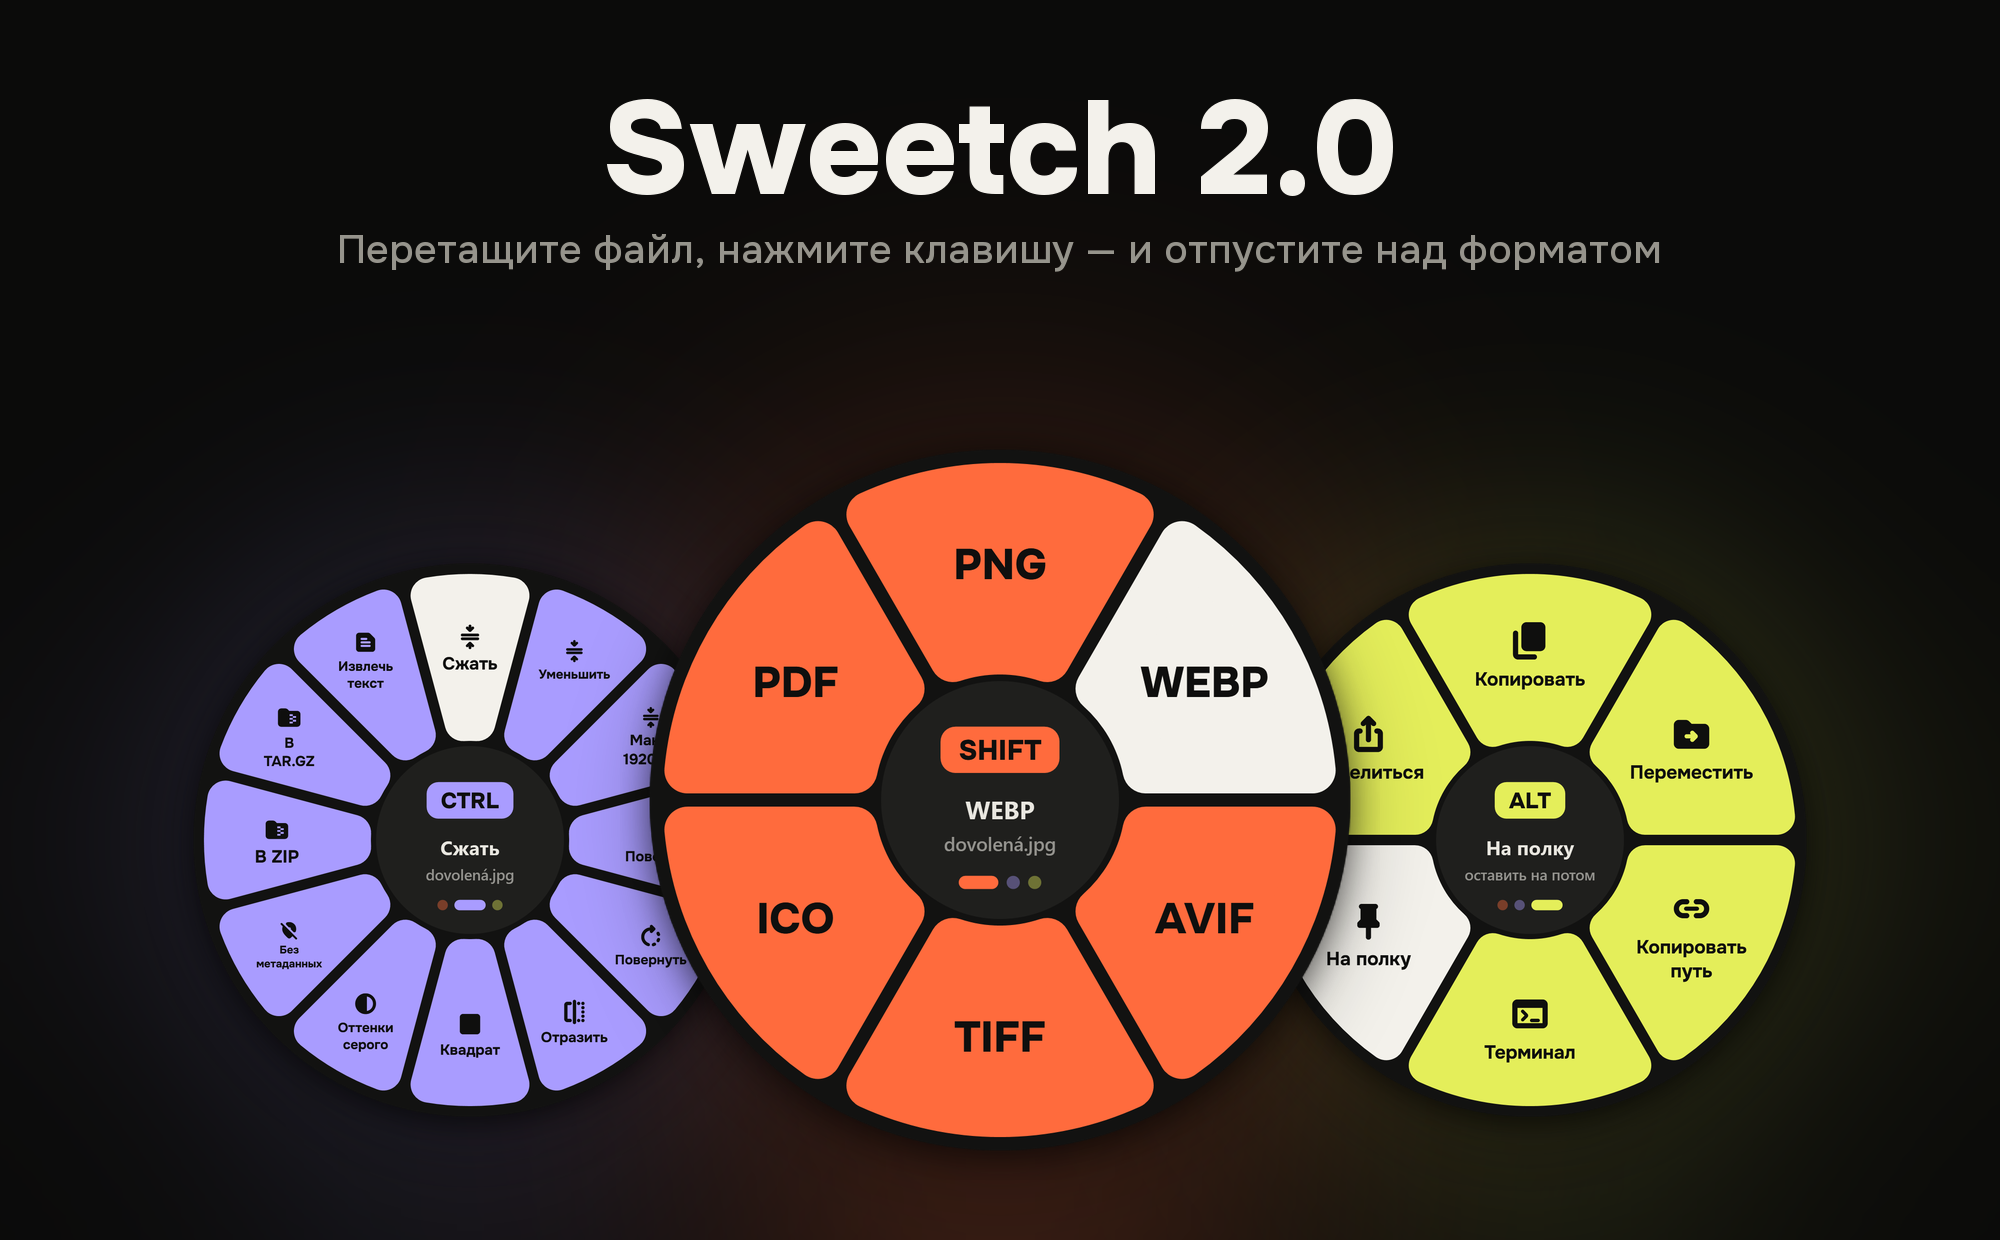
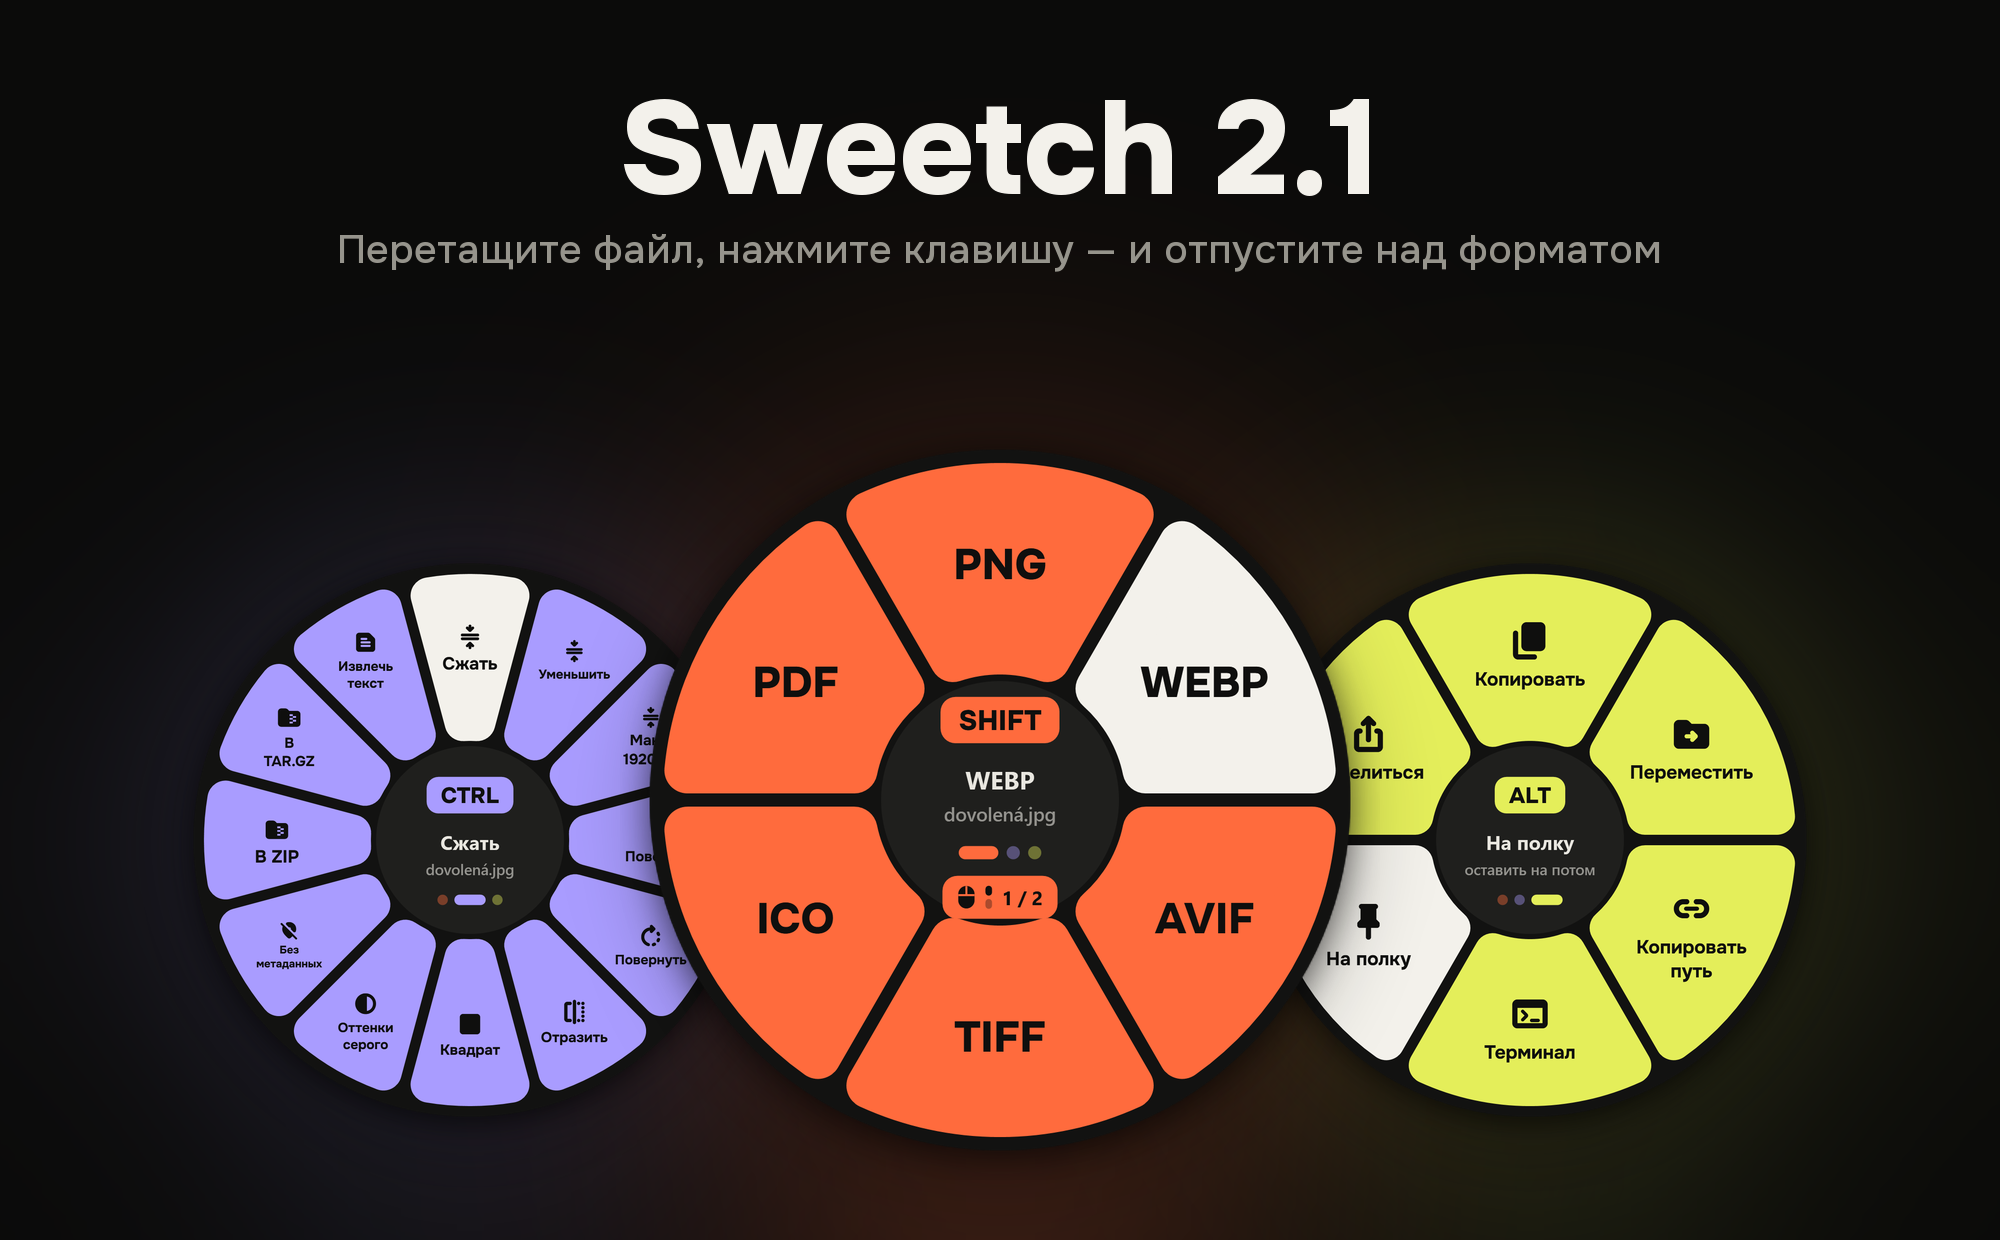
Sweetch 2.1: changelog, release notes, version, README art
- Version 2.1 everywhere the build reads it; README links point at v2.1
- CHANGELOG.md and .github/release-notes/v2.1.md
- README: what's new in 2.1, hero and screenshots from a fresh self-test
- build.ps1 empties publish instead of deleting it, so a terminal open in
  that folder no longer stops the build

diff --git a/scripts/build-readme-art.py b/scripts/build-readme-art.py
@@ -61,7 +61,7 @@ def hero(shots, theme):
 
     draw = ImageDraw.Draw(canvas)
     title = font(800, 132)
-    draw.text((width // 2, 150), 'Sweetch 2.0', font=title, fill=text, anchor='mm')
+    draw.text((width // 2, 150), 'Sweetch 2.1', font=title, fill=text, anchor='mm')
     draw.text((width // 2, 250), 'Перетащите файл, нажмите клавишу — и отпустите над форматом', font=font(500, 40), fill=muted, anchor='mm')
     return canvas.convert('RGB')  # full size: sharp on high-DPI screens
 

diff --git a/README.md b/README.md
@@ -1,7 +1,7 @@
 <p align="center">
   <picture>
     <source media="(prefers-color-scheme: dark)" srcset="docs/hero-dark.png" />
-    <img src="docs/hero-light.png" width="100%" alt="Sweetch 2.0: колёса конвертации, инструментов и действий" />
+    <img src="docs/hero-light.png" width="100%" alt="Sweetch 2.1: колёса конвертации, инструментов и действий" />
   </picture>
 </p>
 
@@ -20,8 +20,8 @@
 </p>
 
 <p align="center">
-  <a href="https://github.com/chikirao/Sweetchiki/releases/download/v2.0/Sweetch-2.0-Setup-win-x64.exe"><img src="https://img.shields.io/badge/%D0%A1%D0%BA%D0%B0%D1%87%D0%B0%D1%82%D1%8C-%D1%83%D1%81%D1%82%D0%B0%D0%BD%D0%BE%D0%B2%D1%89%D0%B8%D0%BA%20EXE-FF6B3D?style=for-the-badge&logo=windows&logoColor=white&labelColor=0F0F0E" alt="Скачать установщик EXE" /></a>
-  <a href="https://github.com/chikirao/Sweetchiki/releases/download/v2.0/Sweetch-2.0-win-x64.zip"><img src="https://img.shields.io/badge/%D0%B8%D0%BB%D0%B8-%D0%B0%D1%80%D1%85%D0%B8%D0%B2%20ZIP-555550?style=for-the-badge&labelColor=0F0F0E" alt="Скачать архив ZIP" /></a>
+  <a href="https://github.com/chikirao/Sweetchiki/releases/download/v2.1/Sweetch-2.1-Setup-win-x64.exe"><img src="https://img.shields.io/badge/%D0%A1%D0%BA%D0%B0%D1%87%D0%B0%D1%82%D1%8C-%D1%83%D1%81%D1%82%D0%B0%D0%BD%D0%BE%D0%B2%D1%89%D0%B8%D0%BA%20EXE-FF6B3D?style=for-the-badge&logo=windows&logoColor=white&labelColor=0F0F0E" alt="Скачать установщик EXE" /></a>
+  <a href="https://github.com/chikirao/Sweetchiki/releases/download/v2.1/Sweetch-2.1-win-x64.zip"><img src="https://img.shields.io/badge/%D0%B8%D0%BB%D0%B8-%D0%B0%D1%80%D1%85%D0%B8%D0%B2%20ZIP-555550?style=for-the-badge&labelColor=0F0F0E" alt="Скачать архив ZIP" /></a>
 </p>
 
 <p align="center">
@@ -56,6 +56,17 @@
 
 Отпустите файл в центре колеса — отмена. Без мыши: выберите файлы в Проводнике и нажмите <kbd>Ctrl</kbd> + <kbd>Alt</kbd> + <kbd>Space</kbd>. Ещё Sweetch есть в контекстном меню Проводника и в трее рядом с часами.
 
+## Что нового в 2.1
+
+- **Сотня новых форматов:** PSD, JPEG XL, HEVC, Outlook MSG, Apple Pages, Numbers и Keynote, LaTeX, YAML, TOML, vCard, ASS, LRC и другие — полная таблица ниже
+- **Вторая страница колеса** с редкими форматами — колёсиком мыши, номер страницы в центре
+- **Субтитры в TXT с таймкодами**, из видео и из файлов субтитров; любая кодировка → UTF-8
+- **Обновления в один клик** прямо из программы
+- **Поиск по формату** в «Доп. программах»
+- Обучение при первом запуске
+
+Все изменения — в [CHANGELOG.md](CHANGELOG.md).
+
 ## Что нового в 2.0
 
 <table>
@@ -72,8 +83,6 @@
 - Новые настройки: цветные плитки, понятные разделы, тонкая прокрутка
 - Тёмная и светлая темы, схема «Низкий контраст»
 - Раскладка подстраивается под узкое окно
-- Вторая страница колеса с редкими форматами — колёсиком мыши, номер страницы в центре
-- Короткое обучение при первом запуске
 - Новый логотип и иконка в трее
 
 </td>
@@ -109,8 +118,8 @@
 
 | Вариант | Как запустить |
 | --- | --- |
-| **[Установщик EXE](https://github.com/chikirao/Sweetchiki/releases/download/v2.0/Sweetch-2.0-Setup-win-x64.exe)** | Запустите установщик: программа появится в меню «Пуск» и удаляется через настройки Windows. |
-| **[Архив ZIP](https://github.com/chikirao/Sweetchiki/releases/download/v2.0/Sweetch-2.0-win-x64.zip)** | Распакуйте всю папку и запустите `Sweetch.exe`. |
+| **[Установщик EXE](https://github.com/chikirao/Sweetchiki/releases/download/v2.1/Sweetch-2.1-Setup-win-x64.exe)** | Запустите установщик: программа появится в меню «Пуск» и удаляется через настройки Windows. |
+| **[Архив ZIP](https://github.com/chikirao/Sweetchiki/releases/download/v2.1/Sweetch-2.1-win-x64.zip)** | Распакуйте всю папку и запустите `Sweetch.exe`. |
 
 Нужна Windows 10 (1809+) или 11, x64; .NET уже внутри. [Все файлы и контрольные суммы SHA-256](https://github.com/chikirao/Sweetchiki/releases/latest). Версия 1.0 — в [оригинальном репозитории](https://github.com/krllmrzv/Sweetch/releases/tag/v1.0).
 

diff --git a/CHANGELOG.md b/CHANGELOG.md
@@ -1,0 +1,30 @@
+# Что нового
+
+## 2.1
+
+### Больше форматов
+- **Картинки:** PSD/PSB, TGA, JPEG XL, JPEG 2000, QOI, DDS, PPM, PCX, OpenEXR, HDR, CUR, APNG, MNG, GIMP XCF, DICOM, вектор SVGZ, EMF, WMF. Новые выходы: JPEG XL, BMP, GIF.
+- **Видео:** OGV, VOB, M2TS, MXF, DivX, ASF, RM, F4V. Новые выходы: MP4 в HEVC (H.265, на видеокарте, если умеет), M4A, AVI, APNG. «Субтитры» достают из видео SRT и TXT с таймкодами.
+- **Аудио:** AMR, APE, WavPack, TTA, DSD (DSF/DFF), DTS, AC3, E-AC3, MKA, CAF, AU, VOC, W64. Новые выходы: ALAC, WavPack, TTA, AC3.
+- **Документы:** LaTeX, reStructuredText, Org, AsciiDoc, Typst, Jupyter, FB2, Textile, MediaWiki, DocBook, OPML, Djot; Word DOCM/DOTX, WPS, WordPerfect, Apple Pages. Выходы LaTeX, rST, Typst, AsciiDoc и слайды PPTX.
+- **Таблицы и презентации:** шаблоны XLT/XLTX/OTS, Apple Numbers и Keynote, PPTM, POTX, PPSX и др. Таблица → HTML, JSON, контакты VCF; презентация → DOCX.
+- **Субтитры:** ASS/SSA, LRC, SAMI, TTML, MicroDVD; TXT с таймкодами `[00:01:02] текст`; любая кодировка на входе (в том числе Windows-1251), всегда UTF-8 на выходе; инструмент «UTF-8».
+- **Данные:** JSON, JSON Lines, YAML, TOML, XML друг в друга; списки записей → CSV и XLSX.
+- **Контакты:** vCard ↔ CSV/XLSX, включая старые экспорты Android.
+- **Письма:** EML и Outlook MSG → HTML и PDF, MSG → EML, все вложения — в папку. Сохранённые страницы MHTML → HTML и PDF.
+- **PDF:** многостраничный TIFF, комикс CBZ, инструмент «Страницы» (`1-3, 5, 8-`).
+
+### Колесо
+- **Вторая страница** с редкими форматами — крутите колёсико мыши, пока меню открыто, и во время перетаскивания тоже. Под центром — номер страницы «1 / 2».
+- Любой сектор можно перенести на другую страницу в настройках колёс.
+- Обучение при первом запуске; оно же — «Как пользоваться» в трее.
+
+### Программа
+- **Обновления:** Sweetch сам проверяет новые релизы на GitHub и предлагает обновиться в один клик. Установленная версия ставит новую тихо, ZIP-версия заменяет свои файлы; загрузка сверяется с SHA-256. Выключается в настройках.
+- **Доп. программы:** поиск по формату (`png`, `.docx`) показывает, какая программа нужна, и у каждой — список её форматов и функций.
+- Исправлено: в узком окне настроек раскладка могла бесконечно перестраиваться и грузить процессор.
+- Исправлено: сборка не падает, если в папке `publish` открыт терминал.
+
+## 2.0
+
+Редизайн и оптимизация форка: колесо из крупных цветных блоков, новые настройки, светлая и тёмная темы и «Низкий контраст»; колесо открывается за ~5 мс, видео кодируется на видеокарте, пачки фото — параллельно, PDF рендерится в 14 раз быстрее, программа вдвое меньше (Pandoc скачивается по требованию). Подробнее — в [релизе 2.0](https://github.com/chikirao/Sweetchiki/releases/tag/v2.0).

diff --git a/.github/release-notes/v2.1.md b/.github/release-notes/v2.1.md
@@ -1,0 +1,49 @@
+<p align="center">
+  <img src="https://raw.githubusercontent.com/chikirao/Sweetchiki/main/docs/hero-dark.png" width="100%" alt="Sweetch 2.1" />
+</p>
+
+**Sweetch 2.1 — сотня новых форматов, вторая страница колеса и обновления в один клик.**
+
+## Скачать
+
+| Файл | Что это |
+| --- | --- |
+| **`Sweetch-2.1-Setup-win-x64.exe`** | Установщик: меню «Пуск», удаление через настройки Windows |
+| **`Sweetch-2.1-win-x64.zip`** | Без установки: распакуйте папку и запустите `Sweetch.exe` |
+| `*.sha256` | Контрольные суммы |
+
+Windows 10 (1809+) или 11, x64. С версии 2.1 Sweetch обновляется сам; с 2.0 — один раз поставьте эту версию поверх.
+
+## 🗂 Больше форматов
+
+| | Новое |
+| --- | --- |
+| 🖼 Картинки | PSD, TGA, JPEG XL, JPEG 2000, QOI, DDS, EXR, HDR, XCF, DICOM, EMF, WMF… → JPEG XL, BMP, GIF |
+| 🎬 Видео | OGV, VOB, M2TS, MXF, DivX, RM… → **HEVC** (на видеокарте), M4A, AVI, APNG; субтитры из видео |
+| 🎵 Аудио | AMR, APE, WavPack, TTA, DSD, DTS, AC3… → ALAC, WavPack, TTA, AC3 |
+| 📄 Документы | LaTeX, rST, Org, AsciiDoc, Typst, Jupyter, FB2, Apple Pages, WordPerfect… → LaTeX, Typst, слайды PPTX |
+| 📊 Таблицы, слайды | Numbers, Keynote, шаблоны Office → HTML, JSON, VCF, DOCX |
+| 💬 Субтитры | ASS, LRC, SAMI, TTML, MicroDVD; **TXT с таймкодами**; любая кодировка → UTF-8 |
+| 🧾 Данные | JSON ↔ YAML ↔ TOML ↔ XML ↔ JSONL, записи → CSV/XLSX, контакты vCard ↔ таблица |
+| ✉ Письма | EML и **Outlook MSG** → HTML/PDF, вложения в папку; страницы MHTML |
+| 📑 PDF | многостраничный TIFF, комикс CBZ, «Страницы» `1-3, 5, 8-` |
+
+## 🎡 Колесо
+
+- **Вторая страница** с редкими форматами: крутите колёсико мыши — даже во время перетаскивания. Под центром видно страницу: «1 / 2».
+- Любой сектор переносится между страницами в настройках.
+- Обучение при первом запуске — с настоящими колёсами.
+
+## ⚙ Программа
+
+- **Обновления в один клик**: Sweetch сам проверяет GitHub, качает новую версию, сверяет SHA-256 и перезапускается.
+- **Поиск по формату** в «Доп. программах»: какая программа нужна для `.mp4` или `.pages`, и что умеет каждая.
+- Исправлено зависание узкого окна настроек.
+
+Полный список — в [CHANGELOG.md](https://github.com/chikirao/Sweetchiki/blob/main/CHANGELOG.md).
+
+## 💛 Поддержать
+
+Форк — chikirao: [DonatePay](https://donatepay.ru/don/1539219) · USDT TRC20 `TCNLG4tJcduTBNgGc7NeYBBNAJkx9Zhc7c`
+
+Оригинал — @mmmorozov: [DonatePay](https://donatepay.ru/don/1539048) · USDT TRC20 `TQHTy7kbk3ngYTUfrTpEeSi3hP38tnqJNU`
